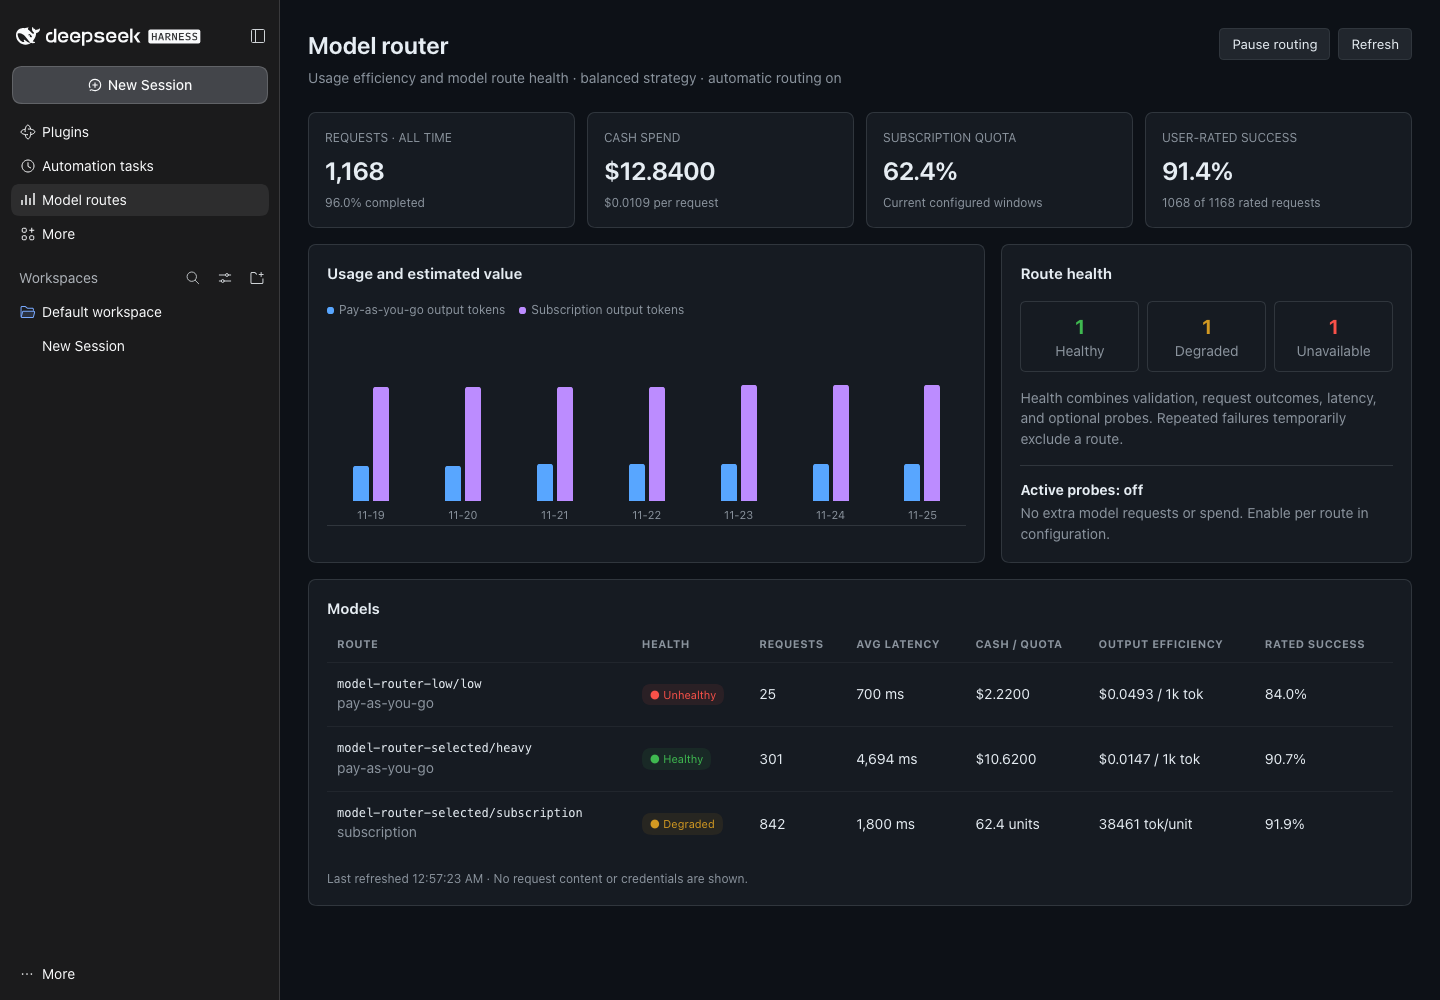
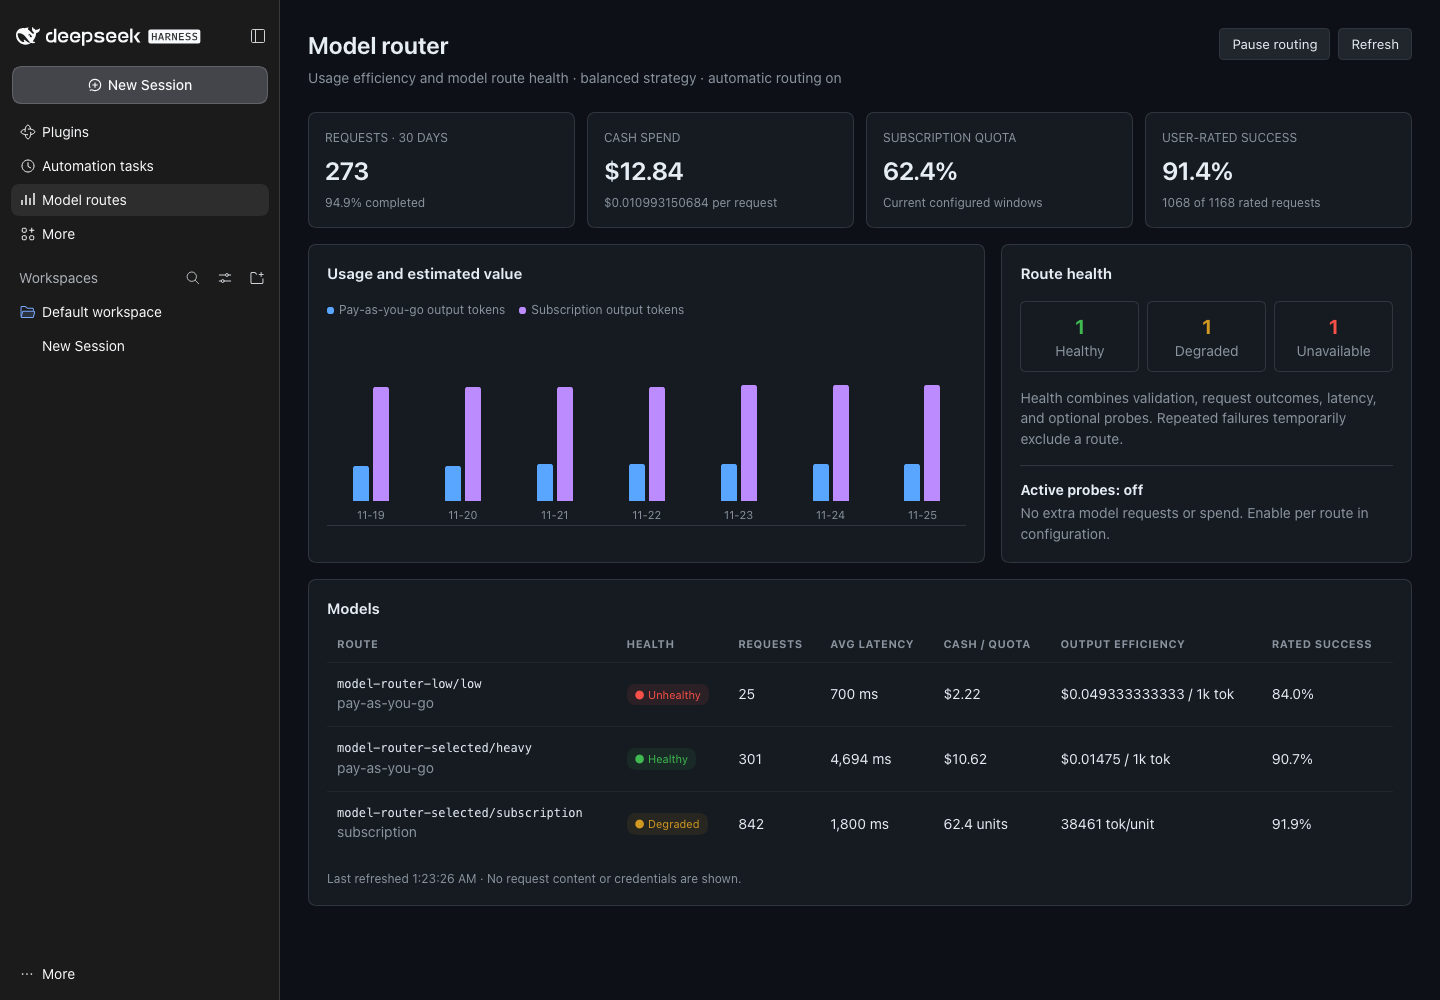
docs: refresh dashboard verification evidence

diff --git a/docs/model-router-dashboard/evidence/README.md b/docs/model-router-dashboard/evidence/README.md
@@ -11,7 +11,7 @@ Baseline revision: merged main `3cef52a`, without the model-router dashboard pac
 
 ## After
 
-Changed revision: dashboard implementation on the stacked branch based on mockup commit `36f79cb`; the exact final source SHA is the PR head. The isolated profile has the new client and Host package installed. Three fictional routes and bounded fictional v2 metrics provide a populated state; a local mock adapter performs validation without external model calls.
+Changed revision: dashboard repair candidate `dccec53` (stacked on mockup commit `36f79cb`). The isolated profile has the new client and Host package installed. Three fictional routes and bounded fictional v2 metrics provide a populated state; a local mock adapter performs validation without external model calls.
 
 - `after-1440.png`: populated dashboard at 1440×1000.
 - `after-390.png`: the same dashboard at 390×900.
